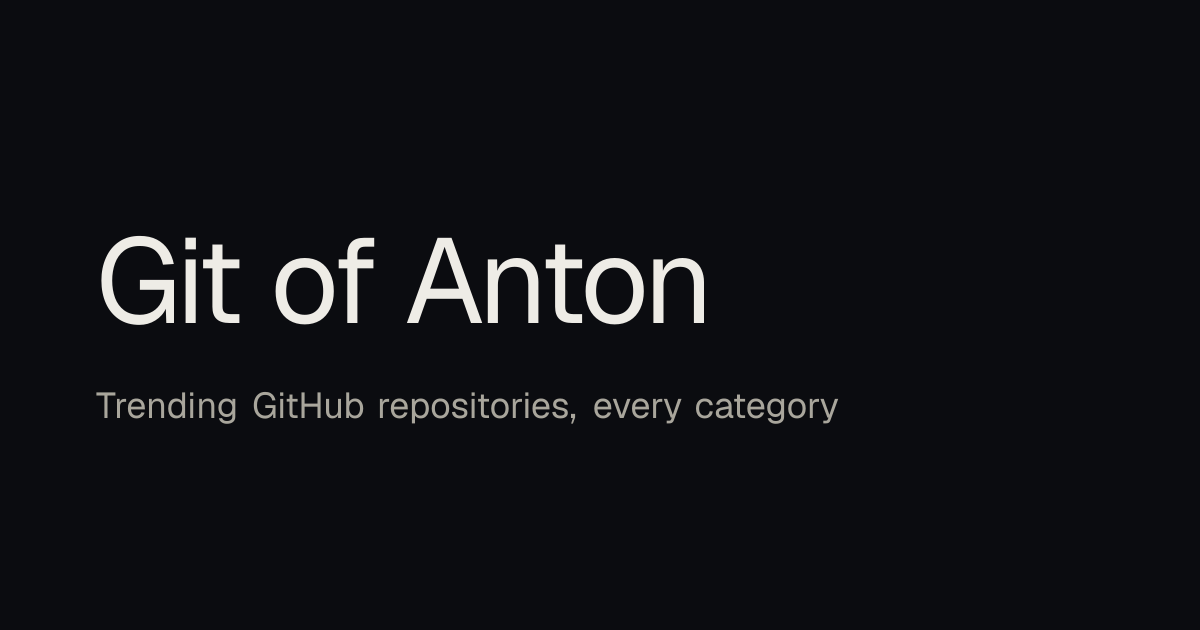
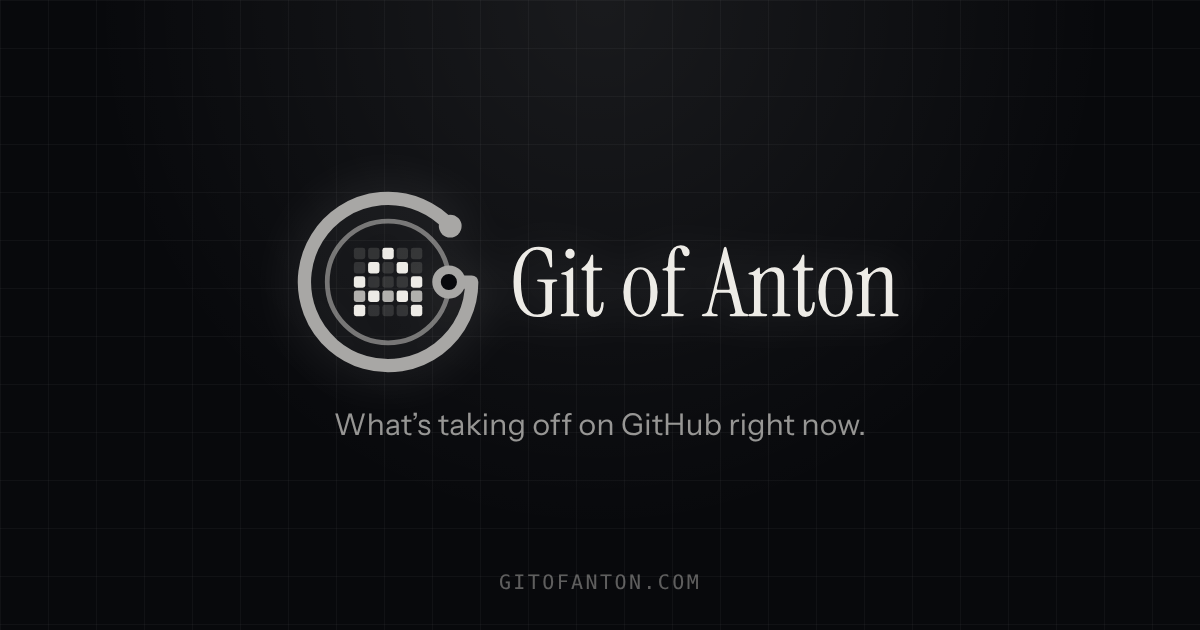
Sync from private repo @ 69297eb6

Changed region(s): [[0.0617, 0.3016, 0.7708, 0.6032], [0.0617, 0.6032, 0.74, 0.6937], [0.4008, 0.9048, 0.5858, 0.9349]]

diff --git a/web/components/fx/particle-title.tsx b/web/components/fx/particle-title.tsx
@@ -2,16 +2,19 @@
 
 import { useEffect, useRef, useState } from "react";
 
-type P = { x: number; y: number; hx: number; hy: number; vx: number; vy: number };
+type P = { x: number; y: number; hx: number; hy: number; vx: number; vy: number; b: number };
+
+/** Draws the shape (white on transparent) into an off-screen canvas of the box size. */
+type Paint = (o: CanvasRenderingContext2D, w: number, h: number) => void;
 type Star = { x: number; y: number; r: number; phase: number };
 
 /**
- * The hero title drawn as white particles over a faint starfield. Particles assemble on load,
- * scatter away from the pointer and spring back. The real <h1> stays in the page (for search
- * engines, screen readers, no-JS) and is hidden visually only once the canvas is drawing.
- * Reduced motion: drawn once, no animation.
+ * Shared particle engine: a shape drawn as white particles that assemble on load, scatter away from
+ * the pointer and spring back, over an optional faint starfield. Pixel brightness becomes particle
+ * brightness, so grey parts of a logo stay grey. Reduced motion: drawn once, no animation.
+ * `prepare` resolves when the shape can be painted (font loaded, image decoded).
  */
-export function ParticleTitle({ text, className }: { text: string; className?: string }) {
+function useParticles(prepare: (box: HTMLElement) => Promise<Paint | null>, opts: { stars: boolean; deps: unknown[] }) {
   const wrap = useRef<HTMLDivElement>(null);
   const canvas = useRef<HTMLCanvasElement>(null);
   const [ready, setReady] = useState(false);
@@ -23,7 +26,7 @@ export function ParticleTitle({ text, className }: { text: string; className?: s
     const ctx = cv.getContext("2d");
     if (!ctx) return;
     const reduced = matchMedia("(prefers-reduced-motion: reduce)").matches;
-    const h1 = box.querySelector("h1");
+    let paint: Paint | null = null;
     let particles: P[] = [];
     let stars: Star[] = [];
     let w = 0;
@@ -35,7 +38,7 @@ export function ParticleTitle({ text, className }: { text: string; className?: s
 
     /** Returns false while the box has no size yet (hidden tab, not laid out): the ResizeObserver retries. */
     const build = () => {
-      if (box.clientWidth < 10 || box.clientHeight < 10) return false;
+      if (!paint || box.clientWidth < 10 || box.clientHeight < 10) return false;
       dpr = Math.min(window.devicePixelRatio || 1, 2);
       w = box.clientWidth;
       h = box.clientHeight;
@@ -44,52 +47,42 @@ export function ParticleTitle({ text, className }: { text: string; className?: s
       cv.style.width = `${w}px`;
       cv.style.height = `${h}px`;
       ctx.setTransform(dpr, 0, 0, dpr, 0, 0);
-
-      // Render the title off-screen in the h1's own font, then sample its pixels.
       const off = document.createElement("canvas");
       off.width = w;
       off.height = h;
       const o = off.getContext("2d")!;
-      const font = h1 ? getComputedStyle(h1).fontFamily : "serif";
-      let size = Math.min(h * 0.78, 220);
-      o.font = `${size}px ${font}`;
-      while (o.measureText(text).width > w * 0.96 && size > 20) {
-        size -= 2;
-        o.font = `${size}px ${font}`;
-      }
-      o.fillStyle = "#fff";
-      o.textBaseline = "middle";
-      o.textAlign = "center";
-      o.fillText(text, w / 2, h * 0.52);
+      paint(o, w, h);
       const data = o.getImageData(0, 0, w, h).data;
       const gap = w < 640 ? 3 : 4;
       const next: P[] = [];
       for (let y = 0; y < h; y += gap) {
         for (let x = 0; x < w; x += gap) {
-          if (data[(y * w + x) * 4 + 3] > 128) {
-            next.push({ x: reduced ? x : Math.random() * w, y: reduced ? y : Math.random() * h, hx: x, hy: y, vx: 0, vy: 0 });
-          }
+          const i = (y * w + x) * 4;
+          const b = (data[i + 3] / 255) * (Math.max(data[i], data[i + 1], data[i + 2]) / 255);
+          if (b > 0.12) next.push({ x: reduced ? x : Math.random() * w, y: reduced ? y : Math.random() * h, hx: x, hy: y, vx: 0, vy: 0, b });
         }
       }
       particles = next;
-      stars = Array.from({ length: Math.round((w * h) / 9000) }, () => ({ x: Math.random() * w, y: Math.random() * h, r: Math.random() * 1.1 + 0.2, phase: Math.random() * Math.PI * 2 }));
+      stars = opts.stars
+        ? Array.from({ length: Math.round((w * h) / 9000) }, () => ({ x: Math.random() * w, y: Math.random() * h, r: Math.random() * 1.1 + 0.2, phase: Math.random() * Math.PI * 2 }))
+        : [];
       return true;
     };
 
     const draw = (t: number) => {
       ctx.clearRect(0, 0, w, h);
+      ctx.fillStyle = "#fff";
       for (const s of stars) {
         ctx.globalAlpha = 0.15 + 0.35 * (0.5 + 0.5 * Math.sin(t / 900 + s.phase));
-        ctx.fillStyle = "#fff";
         ctx.fillRect(s.x, s.y, s.r, s.r);
       }
-      ctx.globalAlpha = 0.95;
-      ctx.fillStyle = "#fff";
       const size = w < 640 ? 1.6 : 2;
-      for (const p of particles) ctx.fillRect(p.x, p.y, size, size);
+      for (const p of particles) {
+        ctx.globalAlpha = 0.95 * p.b;
+        ctx.fillRect(p.x, p.y, size, size);
+      }
       ctx.globalAlpha = 1;
     };
-
     const step = (t: number) => {
       const R = w < 640 ? 50 : 90;
       for (const p of particles) {
@@ -112,9 +105,11 @@ export function ParticleTitle({ text, className }: { text: string; className?: s
     };
 
     let cancelled = false;
-    // Sample the glyphs only after the display font has loaded, or the particles take the fallback font's shape.
-    const fontFamily = h1 ? getComputedStyle(h1).fontFamily : "serif";
-    const fontsReady = document.fonts?.load ? document.fonts.load(`100px ${fontFamily}`, text).catch(() => undefined) : Promise.resolve();
+    const prepared = prepare(box)
+      .then((p) => {
+        paint = p;
+      })
+      .catch(() => undefined);
     let started = false;
     const start = () => {
       if (cancelled || started || !build()) return;
@@ -123,7 +118,7 @@ export function ParticleTitle({ text, className }: { text: string; className?: s
       if (reduced) draw(0);
       else raf = requestAnimationFrame(step);
     };
-    void fontsReady.then(start);
+    void prepared.then(start);
 
     const onMove = (e: PointerEvent) => {
       const r = cv.getBoundingClientRect();
@@ -137,7 +132,7 @@ export function ParticleTitle({ text, className }: { text: string; className?: s
     // Build on first real size, rebuild when the width changes (rotation, window resize).
     let lastW = 0;
     const ro = new ResizeObserver(() => {
-      if (!started) return void fontsReady.then(start);
+      if (!started) return void prepared.then(start);
       if (Math.abs(box.clientWidth - lastW) < 4) return;
       lastW = box.clientWidth;
       if (build() && reduced) draw(0);
@@ -160,7 +155,38 @@ export function ParticleTitle({ text, className }: { text: string; className?: s
       box.removeEventListener("pointermove", onMove);
       box.removeEventListener("pointerleave", onLeave);
     };
-  }, [text]);
+    // eslint-disable-next-line react-hooks/exhaustive-deps -- rebuilt when the caller's deps change
+  }, opts.deps);
+
+  return { wrap, canvas, ready };
+}
+
+/**
+ * The hero title drawn as particles. The real <h1> stays in the page (for search engines, screen
+ * readers, no-JS) and is hidden visually only once the canvas is drawing.
+ */
+export function ParticleTitle({ text, className }: { text: string; className?: string }) {
+  const { wrap, canvas, ready } = useParticles(
+    async (box) => {
+      const h1 = box.querySelector("h1");
+      const font = h1 ? getComputedStyle(h1).fontFamily : "serif";
+      // Sample the glyphs only after the display font has loaded, or the particles take the fallback font's shape.
+      if (document.fonts?.load) await document.fonts.load(`100px ${font}`, text).catch(() => undefined);
+      return (o, w, h) => {
+        let size = Math.min(h * 0.78, 220);
+        o.font = `${size}px ${font}`;
+        while (o.measureText(text).width > w * 0.96 && size > 20) {
+          size -= 2;
+          o.font = `${size}px ${font}`;
+        }
+        o.fillStyle = "#fff";
+        o.textBaseline = "middle";
+        o.textAlign = "center";
+        o.fillText(text, w / 2, h * 0.52);
+      };
+    },
+    { stars: true, deps: [text] },
+  );
 
   return (
     <div ref={wrap} className={className} style={{ position: "relative" }}>
@@ -170,6 +196,36 @@ export function ParticleTitle({ text, className }: { text: string; className?: s
       >
         {text}
       </h1>
+      <canvas ref={canvas} aria-hidden className="absolute inset-0 hidden dark:block" />
+    </div>
+  );
+}
+
+/**
+ * The logo mark drawn as particles, centred in its box. The static <img> shows in the light theme,
+ * without JavaScript and until the particles are ready.
+ */
+export function ParticleLogo({ src, lightSrc, className }: { src: string; lightSrc: string; className?: string }) {
+  const { wrap, canvas, ready } = useParticles(
+    () =>
+      new Promise<Paint>((resolve, reject) => {
+        const img = new Image();
+        img.onload = () =>
+          resolve((o, w, h) => {
+            const side = Math.min(w, h);
+            o.drawImage(img, (w - side) / 2, (h - side) / 2, side, side);
+          });
+        img.onerror = reject;
+        img.src = src;
+      }),
+    { stars: false, deps: [src] },
+  );
+  return (
+    <div ref={wrap} className={className} style={{ position: "relative" }}>
+      {/* eslint-disable-next-line @next/next/no-img-element */}
+      <img src={src} alt="Git of Anton logo" className={`hidden h-full w-auto dark:block transition-opacity duration-500 ${ready ? "opacity-0" : ""}`} />
+      {/* eslint-disable-next-line @next/next/no-img-element */}
+      <img src={lightSrc} alt="Git of Anton logo" className="h-full w-auto dark:hidden" />
       <canvas ref={canvas} aria-hidden className="absolute inset-0 hidden dark:block" />
     </div>
   );

diff --git a/web/app/page.tsx b/web/app/page.tsx
@@ -5,7 +5,7 @@ import { SiteShell } from "@/components/site-shell";
 import { CompactList } from "@/components/home/compact-list";
 import { CategoryGrid } from "@/components/home/category-grid";
 import { Metrics } from "@/components/home/metrics";
-import { ParticleTitle } from "@/components/fx/particle-title";
+import { ParticleLogo, ParticleTitle } from "@/components/fx/particle-title";
 import { NeonCard } from "@/components/fx/neon-card";
 import { SITE_URL, isToolList, type Item, type ListId, type WindowId } from "@/lib/data";
 import { readMeta, readRadar, readToolView, readToolboxMeta, readView } from "@/lib/server-data";
@@ -50,6 +50,7 @@ export default function Home() {
       <div className="mx-auto w-full max-w-[1200px] px-4 pb-20 pt-28 sm:px-6 lg:px-8">
         {/* Hero */}
         <header className="hero-rays mb-10 text-center">
+          <ParticleLogo src="/brand/mark-dark.svg" lightSrc="/brand/mark-light.svg" className="mb-8 flex h-[clamp(110px,16vw,190px)] w-full items-center justify-center sm:mb-10" />
           <ParticleTitle text="Git of Anton" className="flex h-[clamp(120px,20vw,260px)] w-full items-center justify-center" />
           <p className="mx-auto mt-4 max-w-2xl text-xl leading-relaxed text-muted-foreground">What&apos;s taking off on GitHub right now.</p>
           {meta?.trendingTopics?.length ? (

diff --git a/web/app/layout.tsx b/web/app/layout.tsx
@@ -1,5 +1,5 @@
 import React from "react"
-import type { Metadata } from 'next'
+import type { Metadata, Viewport } from 'next'
 import localFont from 'next/font/local'
 import { ThemeProvider } from '@/components/theme-provider'
 import './globals.css'
@@ -41,8 +41,20 @@ export const metadata: Metadata = {
     images: [{ url: '/og.png', width: 1200, height: 630, alt: 'Git of Anton' }],
     type: 'website',
   },
-  twitter: { card: 'summary_large_image' },
+  twitter: { card: 'summary_large_image', images: ['/og.png'] },
+  // Brand pack (2026-10-18): the grid "A" on the tab (switches with the OS theme), full mark elsewhere.
+  icons: {
+    icon: [
+      { url: '/favicon.ico', sizes: 'any' },
+      { url: '/favicon.svg', type: 'image/svg+xml' },
+    ],
+    apple: '/apple-touch-icon.png',
+    other: [{ rel: 'mask-icon', url: '/safari-pinned-tab.svg', color: '#08090C' }],
+  },
+  manifest: '/site.webmanifest',
 }
+
+export const viewport: Viewport = { themeColor: '#08090C' }
 
 export default function RootLayout({
   children,
